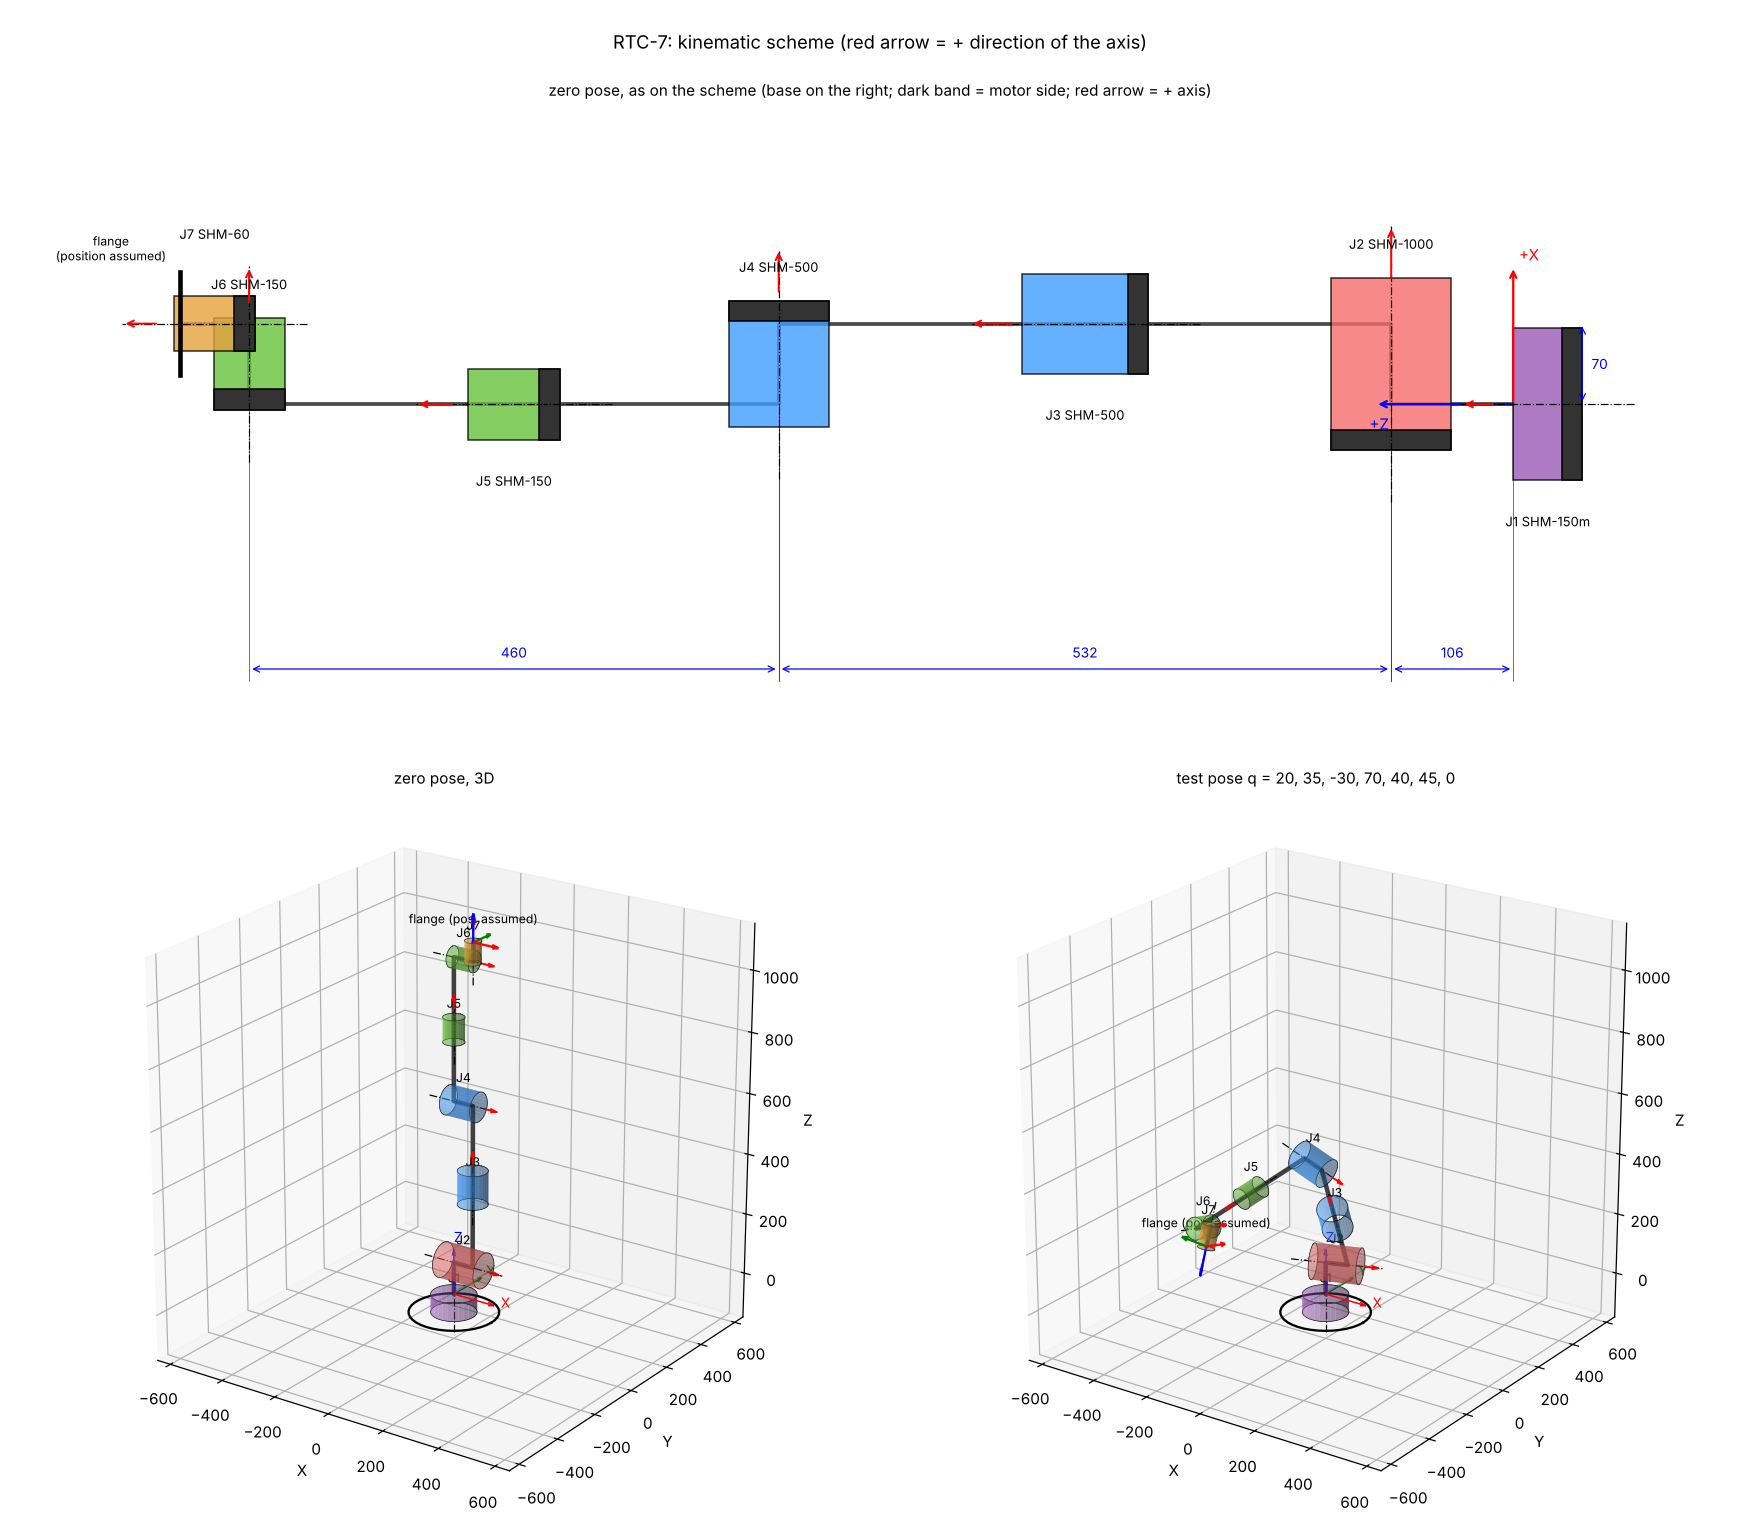
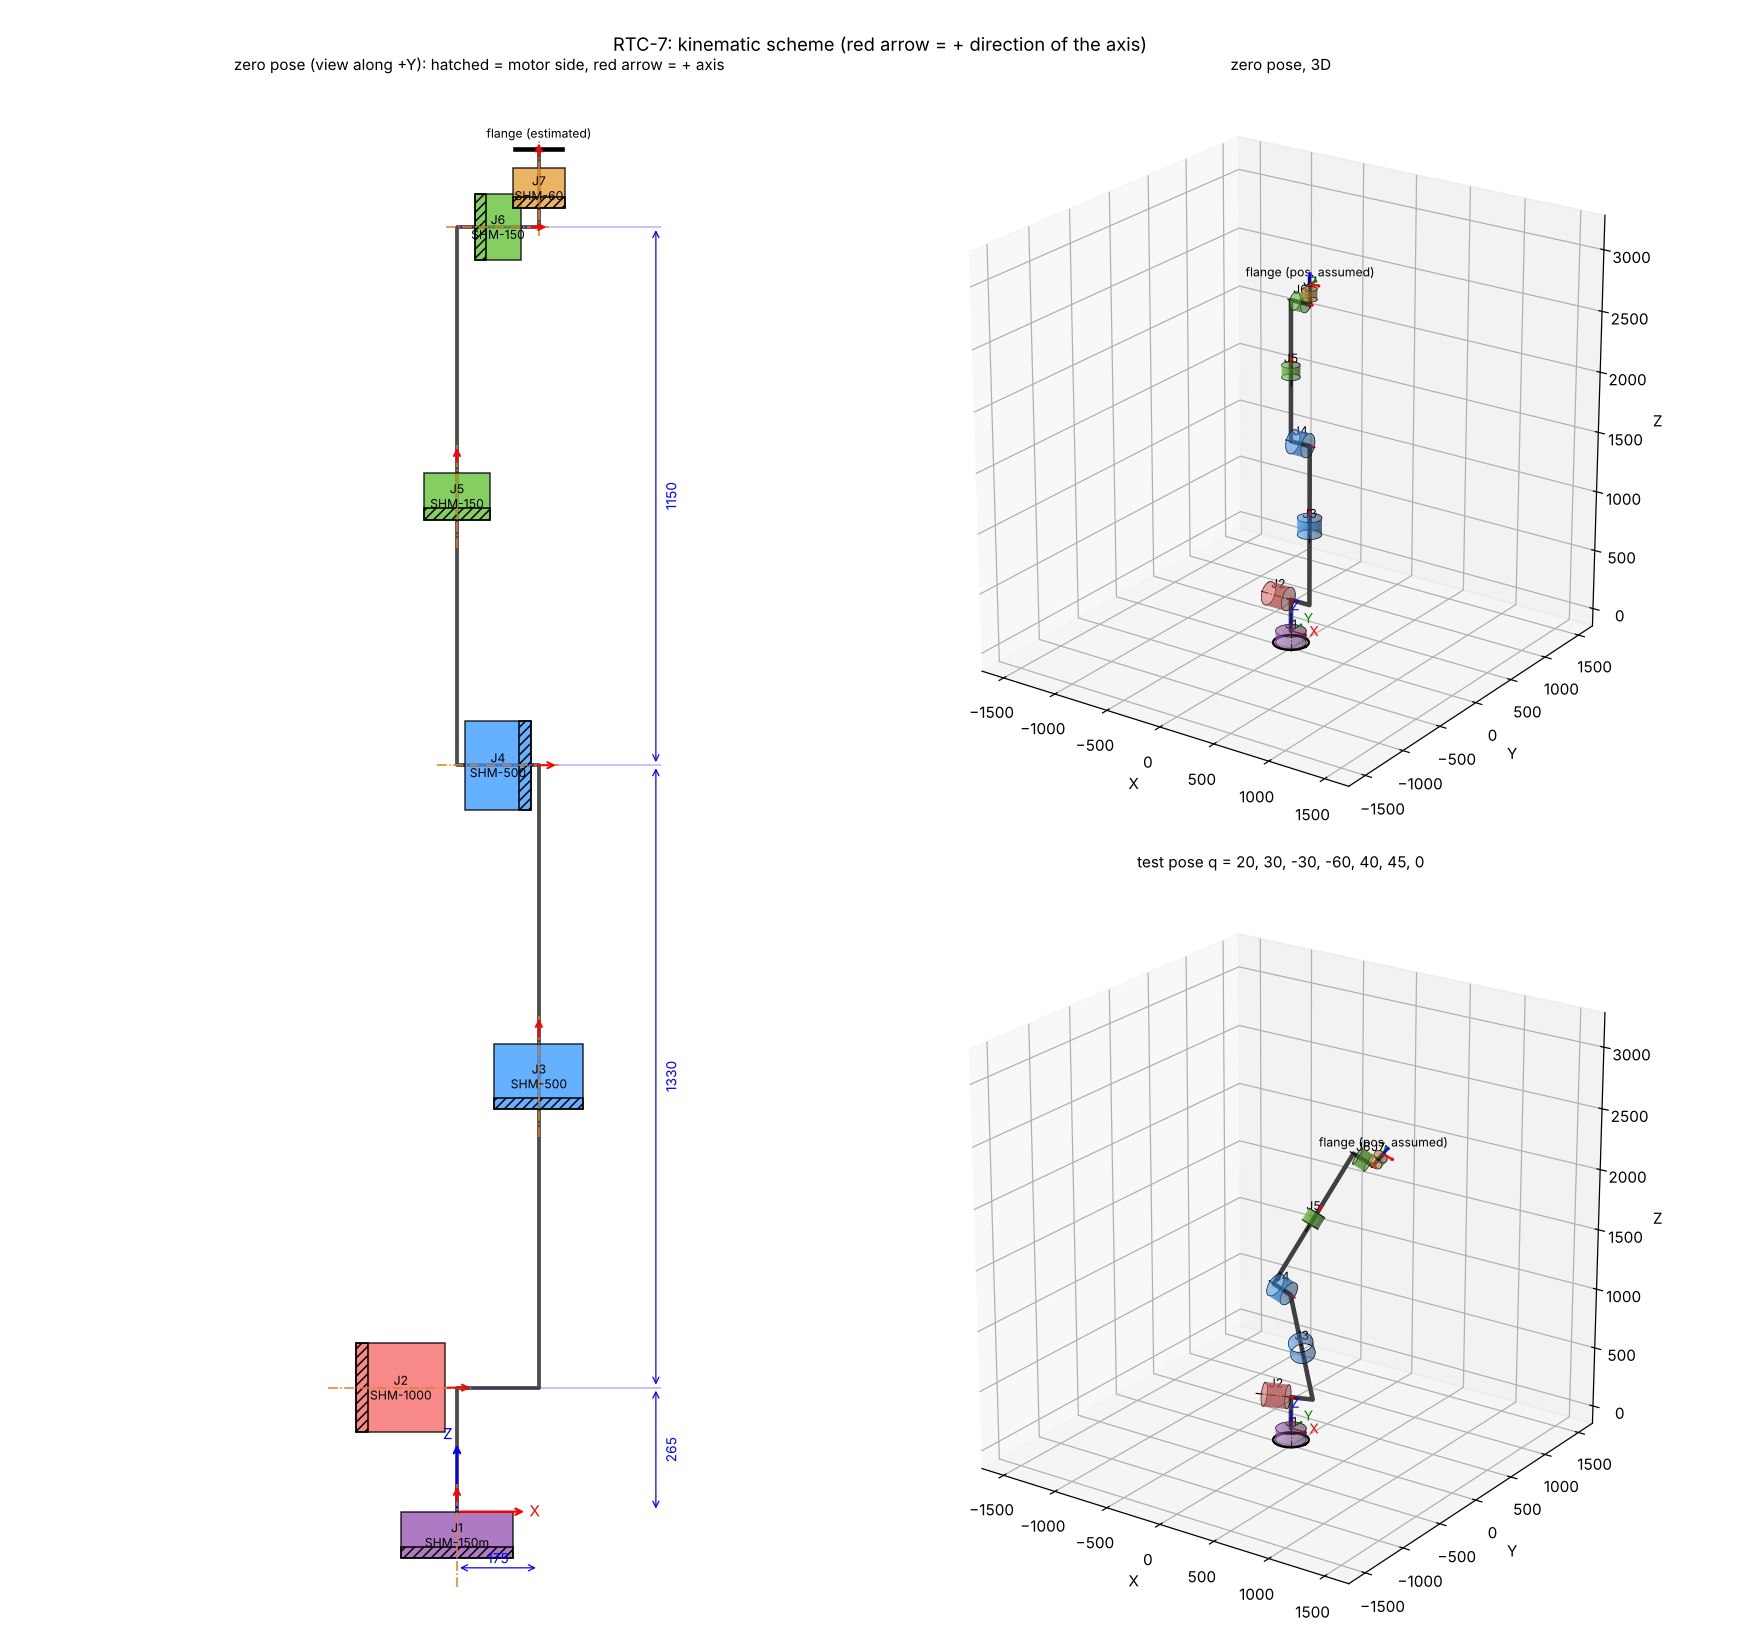
Arm layout from the second user scheme: 265 / 1330 / 1150, lateral offset 175; scheme drawn upright like the user's, hatched motor side, real-size joint envelopes
Claude-Session: https://claude.ai/code/session_01T1NEmM8t24YJBEFNnKwD2z

diff --git a/tools/robot_scheme.py b/tools/robot_scheme.py
@@ -20,8 +20,8 @@ import sys
 
 import numpy as np
 
-R_SYMBOL = {"SHM-60": 43, "SHM-150": 56, "SHM-500": 79, "SHM-1000": 95, "SHM-150m": 120}
-L_SYMBOL = {"SHM-60": 70, "SHM-150": 80, "SHM-500": 110, "SHM-1000": 150, "SHM-150m": 60}
+R_SYMBOL = {"SHM-60": 55, "SHM-150": 71, "SHM-500": 95, "SHM-1000": 95, "SHM-150m": 120}   # ~ real envelope radius
+L_SYMBOL = {"SHM-60": 85, "SHM-150": 100, "SHM-500": 140, "SHM-1000": 190, "SHM-150m": 100}  # ~ real envelope length
 
 
 def read_layout(path):
@@ -37,7 +37,8 @@ def read_layout(path):
             lay["axes"].append({"name": t[1], "joint": t[2],
                                 "p": np.array([float(v) for v in t[3:6]]),
                                 "w": np.array([float(v) for v in t[6:9]]),
-                                "motor": kv.get("motor"), "output": kv.get("output")})
+                                "motor": kv.get("motor"), "output": kv.get("output"),
+                                "at": float(kv["at"]) if "at" in kv else None})
         elif t[0] == "FLANGE":
             lay["flange"] = {"p": np.array([float(v) for v in t[1:4]]),
                              "w": np.array([float(v) for v in t[4:7]]),
@@ -190,6 +191,9 @@ def body_centres(lay, pts, dirs, flange_p):
     n = len(pts)
     for i in range(n):
         j = lay["axes"][i]["joint"]
+        if lay["axes"][i].get("at") is not None:           # body position given in the layout
+            out.append(pts[i] + dirs[i] * lay["axes"][i]["at"])
+            continue
         if i == 0:
             out.append(pts[0] - dirs[0] * L_SYMBOL[j] / 2)
             continue
@@ -211,79 +215,70 @@ def body_centres(lay, pts, dirs, flange_p):
 
 
 def draw_side(ax, lay):
-    """Zero pose in the orientation of the user's scheme: base on the right, arm to the left, +X up."""
+    """Zero pose as on the user's scheme: base at the bottom, +Z up, +X to the right (view along +Y)."""
     from matplotlib.patches import Rectangle
     n = len(lay["axes"])
     pts, dirs, Tf = fk_poe(lay, np.zeros(n))
     cen = body_centres(lay, pts, dirs, Tf[:3, 3])
-    uv = lambda P: (-P[2], P[0])                    # drawing coords: u = -Z, v = X
-    # arm lines
+    uv = lambda P: (P[0], P[2])
     chain = [pts[0]]
     for i in range(n - 1):
         _, c1, c2 = line_relation(pts[i], dirs[i], pts[i + 1], dirs[i + 1])
         chain += [c1, c2]
     chain.append(Tf[:3, 3])
-    U = [uv(P) for P in chain]
-    ax.plot([u for u, _ in U], [v for _, v in U], color="0.3", lw=2.5, zorder=1)
+    U = np.array([uv(P) for P in chain])
+    ax.plot(U[:, 0], U[:, 1], color="0.3", lw=2.5, zorder=1)
     for i, a in enumerate(lay["axes"]):
         j, c, w = a["joint"], cen[i], dirs[i]
-        r, L = R_SYMBOL[j] * 0.55, L_SYMBOL[j]
+        r, L = R_SYMBOL[j], L_SYMBOL[j]
         along_z = abs(w[2]) > 0.5
         cu, cv = uv(c)
-        wu, hv = (L, 2 * r) if along_z else (2 * r, L)
+        wu, hv = (2 * r, L) if along_z else (L, 2 * r)
         ax.add_patch(Rectangle((cu - wu / 2, cv - hv / 2), wu, hv, fc=COLORS[j], ec="k", alpha=0.8, zorder=2))
-        # motor end: darker band on the motor side
         sgn = 1 if a["motor"].startswith("+") else -1
         md = np.zeros(3); md["XYZ".index(a["motor"][1])] = sgn
-        mc = c + md * (L / 2 - 9)
-        mu, mv = uv(mc)
-        bw, bh = (18, 2 * r) if along_z else (2 * r, 18)
-        ax.add_patch(Rectangle((mu - bw / 2, mv - bh / 2), bw, bh, fc="0.2", ec="k", zorder=3))
-        # axis line
-        e = w * (L / 2 + 45)
+        mu, mv = uv(c + md * (L / 2 - 12))
+        bw, bh = (2 * r, 24) if along_z else (24, 2 * r)
+        ax.add_patch(Rectangle((mu - bw / 2, mv - bh / 2), bw, bh, fc="none", ec="k", hatch="////", zorder=3))
+        e = w * (L / 2 + 60)
         (u0, v0), (u1, v1) = uv(c - e), uv(c + e)
-        ax.plot([u0, u1], [v0, v1], "k-.", lw=0.8, zorder=4)
+        ax.plot([u0, u1], [v0, v1], color="#e67e22", ls="-.", lw=1, zorder=4)
         ax.annotate("", xy=(u1, v1), xytext=(u0 + (u1 - u0) * 0.8, v0 + (v1 - v0) * 0.8),
                     arrowprops=dict(arrowstyle="->", color="r", lw=1.3), zorder=5)
-        lu, lv = (cu, cv - r - 40) if along_z else (cu, cv - L / 2 - 40)
-        if (not along_z and i % 2) or i == n - 1:
-            lv = (cv + L / 2 + 25) if not along_z else (cv + r + 50)
-        ax.text(lu, lv, f"{a['name']} {j}", ha="center", fontsize=8.5, zorder=6)
+        ax.text(cu, cv, f"{a['name']}\n{j}", ha="center", va="center", fontsize=8, zorder=6)
     fu, fv = uv(Tf[:3, 3])
-    ax.plot([fu, fu], [fv - 45, fv + 45], color="k", lw=3)
-    ax.text(fu - 60, fv + 55, "flange\n(position assumed)" if lay["flange"]["assumed"] else "flange",
-            ha="center", fontsize=8)
-    # dimensions as on the scheme (between axis positions along Z)
-    zs = [0] + [p[2] for p, w in zip(pts, dirs) if abs(w[0]) > 0.5]
-    y = -230
+    ax.plot([fu - 50, fu + 50], [fv, fv], color="k", lw=3)
+    ax.text(fu, fv + 25, "flange (estimated)" if lay["flange"]["assumed"] else "flange", ha="center", fontsize=8)
+    # dimensions: heights of the horizontal axes, lateral offsets of the vertical ones
+    zs = [0] + [p[2] for p, w in zip(pts, dirs) if abs(w[2]) < 0.5]
+    xs = sorted({round(p[0], 3) for p, w in zip(pts, dirs) if abs(w[2]) > 0.5})
+    xr = max(xs) + 250
     for z0, z1 in zip(zs[:-1], zs[1:]):
-        ax.annotate("", xy=(-z0, y), xytext=(-z1, y), arrowprops=dict(arrowstyle="<->", lw=0.8, color="b"))
-        ax.text(-(z0 + z1) / 2, y + 10, f"{z1 - z0:.0f}", color="b", ha="center", fontsize=9)
-        for z in (z0, z1):
-            ax.plot([-z, -z], [y - 10, 0], color="b", lw=0.4)
-    ax.annotate("", xy=(60, 0), xytext=(60, 70), arrowprops=dict(arrowstyle="<->", lw=0.8, color="b"))
-    ax.text(68, 35, "70", color="b", fontsize=9, va="center")
-    # world frame
-    ax.annotate("", xy=(-120, 0), xytext=(0, 0), arrowprops=dict(arrowstyle="->", color="b", lw=1.5))
-    ax.text(-125, -22, "+Z", color="b")
-    ax.annotate("", xy=(0, 120), xytext=(0, 0), arrowprops=dict(arrowstyle="->", color="r", lw=1.5))
-    ax.text(5, 125, "+X", color="r")
+        ax.annotate("", xy=(xr, z0), xytext=(xr, z1), arrowprops=dict(arrowstyle="<->", lw=0.8, color="b"))
+        ax.text(xr + 15, (z0 + z1) / 2, f"{z1 - z0:.0f}", color="b", va="center", fontsize=9, rotation=90)
+        ax.plot([xs[0], xr + 10], [z1, z1], color="b", lw=0.3)
+    if len(xs) > 1:
+        ax.annotate("", xy=(xs[0], -120), xytext=(xs[-1], -120), arrowprops=dict(arrowstyle="<->", lw=0.8, color="b"))
+        ax.text((xs[0] + xs[-1]) / 2, -110, f"{xs[-1] - xs[0]:.0f}", color="b", ha="center", fontsize=9)
+    ax.annotate("", xy=(150, 0), xytext=(0, 0), arrowprops=dict(arrowstyle="->", color="r", lw=1.5))
+    ax.text(155, -10, "X", color="r")
+    ax.annotate("", xy=(0, 150), xytext=(0, 0), arrowprops=dict(arrowstyle="->", color="b", lw=1.5))
+    ax.text(-30, 155, "Z", color="b")
     ax.set_aspect("equal")
-    ax.set_xlim(-1300, 200), ax.set_ylim(-280, 260)
+    ax.set_xlim(min(xs) - 450, xr + 120), ax.set_ylim(-250, fv + 150)
     ax.axis("off")
-    ax.set_title("zero pose, as on the scheme (base on the right; dark band = motor side; red arrow = + axis)",
-                 fontsize=10)
+    ax.set_title("zero pose (view along +Y): hatched = motor side, red arrow = + axis", fontsize=10)
 
 
 def draw(lay, q_test, path):
     import matplotlib
     matplotlib.use("Agg")
     import matplotlib.pyplot as plt
-    fig = plt.figure(figsize=(16, 14))
-    draw_side(fig.add_subplot(2, 1, 1), lay)
+    fig = plt.figure(figsize=(16, 15))
+    draw_side(fig.add_subplot(1, 2, 1), lay)
     for k, (q, title) in enumerate([(np.zeros(len(lay["axes"])), "zero pose, 3D"),
                                     (q_test, "test pose q = " + ", ".join(f"{math.degrees(v):.0f}" for v in q_test))]):
-        ax = fig.add_subplot(2, 2, k + 3, projection="3d")
+        ax = fig.add_subplot(2, 2, 2 * k + 2, projection="3d")
         pts, dirs, Tf = fk_poe(lay, q)
         cen = body_centres(lay, pts, dirs, Tf[:3, 3])
         # links: chain of the common-normal points
@@ -296,7 +291,7 @@ def draw(lay, q_test, path):
         ax.plot(C[:, 0], C[:, 1], C[:, 2], color="0.25", lw=3, solid_capstyle="round")
         for i, a in enumerate(lay["axes"]):
             j = a["joint"]
-            cylinder(ax, cen[i], dirs[i], R_SYMBOL[j] * 0.6, L_SYMBOL[j], COLORS[j])
+            cylinder(ax, cen[i], dirs[i], R_SYMBOL[j], L_SYMBOL[j], COLORS[j])
             e = dirs[i] * (L_SYMBOL[j] / 2 + 70)
             ax.plot(*np.c_[cen[i] - e, cen[i] + e], color="k", lw=0.8, ls="-.")
             ax.quiver(*(cen[i] + e * 0.6), *(dirs[i] * 45), color="r", lw=1.2, arrow_length_ratio=0.5)
@@ -313,7 +308,7 @@ def draw(lay, q_test, path):
         for col, vec, nm in zip("rgb", np.eye(3), "XYZ"):
             ax.quiver(0, 0, 0, *(vec * 150), color=col, lw=1, arrow_length_ratio=0.15)
             ax.text(*(vec * 175), nm, color=col, fontsize=9)
-        lim = 650
+        lim = 0.55 * (np.linalg.norm(fk_poe(lay, np.zeros(len(q)))[2][:3, 3]) + 200)
         ax.set_xlim(-lim, lim), ax.set_ylim(-lim, lim), ax.set_zlim(-150, 2 * lim - 150)
         ax.set_box_aspect((1, 1, 1))
         ax.set_xlabel("X"), ax.set_ylabel("Y"), ax.set_zlabel("Z")
@@ -348,7 +343,7 @@ def main():
 
     out = [f"# {lay['name']}: kinematics (`python tools/robot_scheme.py {a.layout}`)", "",
            "Zero configuration = the arm stretched as on the scheme. World frame: origin on the J1 axis at the",
-           "mounting face of the slewing bearing, +Z along J1 toward the arm, +X toward the 70 mm offsets.", "",
+           "mounting face of the slewing bearing, +Z along J1 toward the arm, +X toward the lateral offsets.", "",
            "## Joint axes (zero configuration)", "",
            "| Joint | Drive | Point on the axis, mm | Direction | Motor side | Relation to the previous axis |",
            "|---|---|---|---|---|---|"]
@@ -379,8 +374,9 @@ def main():
             f"- shoulder (J2 x J1) at z = {sh[2]:.0f}; flange at zero pose {', '.join(f'{v:.0f}' for v in Tz[:3, 3])}",
             f"- J2 -> J6 (shoulder -> wrist pitch) along the arm: {np.linalg.norm(wr - sh):.0f} mm" if wr is not None else "",
             f"- reach from the shoulder axis to the flange: {np.linalg.norm(Tz[:3, 3] - sh):.0f} mm (with the assumed flange)",
-            "- consecutive axes all intersect (each 70 mm offset lies along a pitch axis, i.e. sideways, out of the arm plane);",
-            "  J1, J5 are on one line and J3, J7 on another, 70 mm apart, at the zero pose."]
+            "- consecutive axes all intersect: the lateral offsets lie along the pitch axes (out of the bending plane)"
+            if all(line_relation(x["p"], x["w"], y["p"], y["w"])[0] == "intersect"
+                   for x, y in zip(lay["axes"][:-1], lay["axes"][1:])) else "- not all consecutive axes intersect (see the table)"]
     report = "\n".join(x for x in out if x is not None) + "\n"
     print(report)
     if a.md:

diff --git a/robot/RTC-7-kinematics.md b/robot/RTC-7-kinematics.md
@@ -1,42 +1,41 @@
 # RTC-7: kinematics (`python tools/robot_scheme.py robot/RTC-7-layout.txt`)
 
 Zero configuration = the arm stretched as on the scheme. World frame: origin on the J1 axis at the
-mounting face of the slewing bearing, +Z along J1 toward the arm, +X toward the 70 mm offsets.
+mounting face of the slewing bearing, +Z along J1 toward the arm, +X toward the lateral offsets.
 
 ## Joint axes (zero configuration)
 
 | Joint | Drive | Point on the axis, mm | Direction | Motor side | Relation to the previous axis |
 |---|---|---|---|---|---|
 | J1 | SHM-150m | 0, 0, 0 | 0, 0, 1 | -Z |  |
-| J2 | SHM-1000 | 0, 0, 106 | 1, 0, 0 | -X | intersect, 90 deg |
-| J3 | SHM-500 | 70, 0, 106 | 0, 0, 1 | -Z | intersect, 90 deg |
-| J4 | SHM-500 | 70, 0, 638 | 1, 0, 0 | +X | intersect, 90 deg |
-| J5 | SHM-150 | 0, 0, 638 | 0, 0, 1 | -Z | intersect, 90 deg |
-| J6 | SHM-150 | 0, 0, 1098 | 1, 0, 0 | -X | intersect, 90 deg |
-| J7 | SHM-60 | 70, 0, 1098 | 0, 0, 1 | -Z | intersect, 90 deg |
+| J2 | SHM-1000 | 0, 0, 265 | 1, 0, 0 | -X | intersect, 90 deg |
+| J3 | SHM-500 | 175, 0, 265 | 0, 0, 1 | -Z | intersect, 90 deg |
+| J4 | SHM-500 | 175, 0, 1595 | 1, 0, 0 | +X | intersect, 90 deg |
+| J5 | SHM-150 | 0, 0, 1595 | 0, 0, 1 | -Z | intersect, 90 deg |
+| J6 | SHM-150 | 0, 0, 2745 | 1, 0, 0 | -X | intersect, 90 deg |
+| J7 | SHM-60 | 175, 0, 2745 | 0, 0, 1 | -Z | intersect, 90 deg |
 
-Flange: 70, 0, 1158  (ASSUMED - not dimensioned on the scheme)
+Flange: 175, 0, 2911  (ASSUMED - not dimensioned on the scheme)
 
 ## Standard DH (Spong): A_i = Rz(theta_i) Tz(d_i) Tx(a_i) Rx(alpha_i), theta_i = q_i + offset_i
 
 | i | offset theta, deg | d, mm | a, mm | alpha, deg |
 |---|---|---|---|---|
-| 1 (J1) | 90.0 | 106.0 | 0.0 | 90.0 |
-| 2 (J2) | 0.0 | 70.0 | 0.0 | -90.0 |
-| 3 (J3) | 0.0 | 532.0 | 0.0 | 90.0 |
-| 4 (J4) | 0.0 | -70.0 | 0.0 | -90.0 |
-| 5 (J5) | 0.0 | 460.0 | 0.0 | 90.0 |
-| 6 (J6) | 0.0 | 70.0 | 0.0 | -90.0 |
-| 7 (J7) | -90.0 | 60.0 | 0.0 | 0.0 |
+| 1 (J1) | 90.0 | 265.0 | 0.0 | 90.0 |
+| 2 (J2) | 0.0 | 175.0 | 0.0 | -90.0 |
+| 3 (J3) | 0.0 | 1330.0 | 0.0 | 90.0 |
+| 4 (J4) | 0.0 | -175.0 | 0.0 | -90.0 |
+| 5 (J5) | 0.0 | 1150.0 | 0.0 | 90.0 |
+| 6 (J6) | 0.0 | 175.0 | 0.0 | -90.0 |
+| 7 (J7) | -90.0 | 166.0 | 0.0 | 0.0 |
 
 Row 7 ends in the tool frame on the flange (x = world X at zero). Base frame of the DH chain = world frame (identity).
 
-Check: DH chain vs exact axis model on 200 random poses - max difference 4.5e-13 (mm / -).
+Check: DH chain vs exact axis model on 200 random poses - max difference 1.8e-12 (mm / -).
 
 ## Geometry
 
-- shoulder (J2 x J1) at z = 106; flange at zero pose 70, 0, 1158
-- J2 -> J6 (shoulder -> wrist pitch) along the arm: 992 mm
-- reach from the shoulder axis to the flange: 1054 mm (with the assumed flange)
-- consecutive axes all intersect (each 70 mm offset lies along a pitch axis, i.e. sideways, out of the arm plane);
-  J1, J5 are on one line and J3, J7 on another, 70 mm apart, at the zero pose.
+- shoulder (J2 x J1) at z = 265; flange at zero pose 175, 0, 2911
+- J2 -> J6 (shoulder -> wrist pitch) along the arm: 2480 mm
+- reach from the shoulder axis to the flange: 2652 mm (with the assumed flange)
+- consecutive axes all intersect: the lateral offsets lie along the pitch axes (out of the bending plane)
